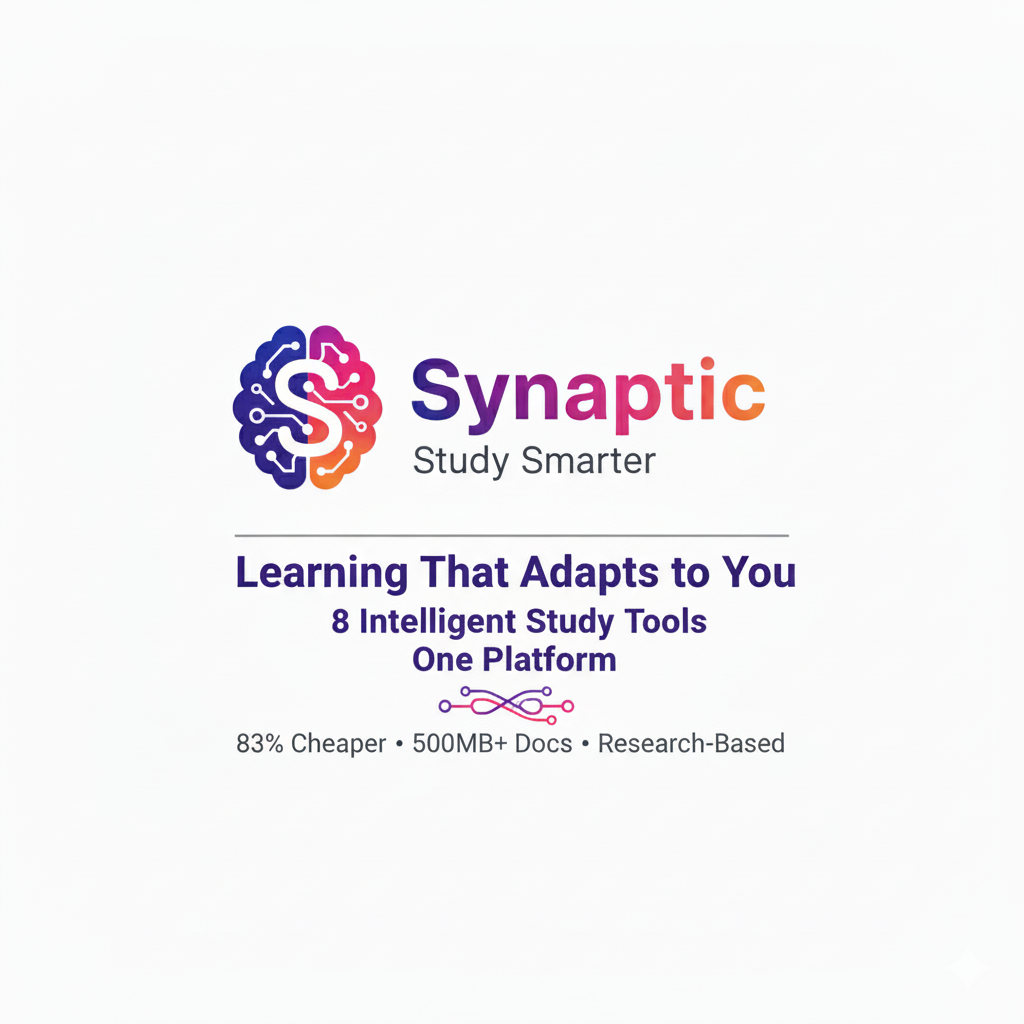
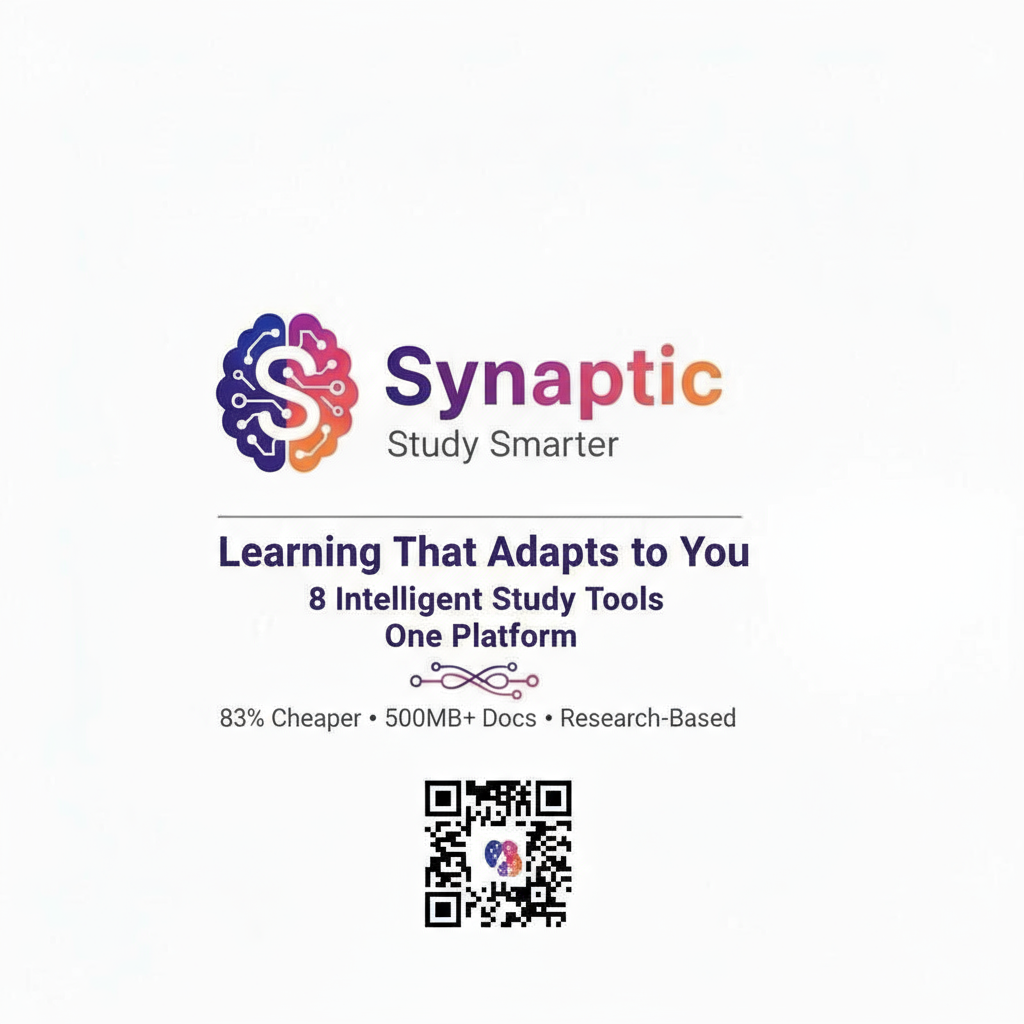
Add testing checklist and fix missing site.webmanifest
- Create comprehensive testing checklist for pre-launch validation
- Add site.webmanifest for PWA support (fixes 404 errors)
- Update og-image.png with production version

🤖 Generated with [Claude Code](https://claude.com/claude-code)

Changed region(s): [[0.1875, 0.2812, 0.7812, 0.9062]]

diff --git a/TESTING_CHECKLIST.md b/TESTING_CHECKLIST.md
@@ -1,0 +1,324 @@
+# 🧪 Production Testing Checklist
+
+**Date**: 2025-11-10
+**Environment**: Production (https://synaptic.study)
+**Status**: Pre-Launch Testing
+
+---
+
+## 1. Basic Functionality Tests (15 min)
+
+### Authentication Flow
+- [ ] Visit https://synaptic.study
+- [ ] Click "Get Started"
+- [ ] Sign up with new email (test account)
+- [ ] Verify email confirmation works
+- [ ] Sign in with existing account
+- [ ] Verify redirect to dashboard after sign-in
+
+### Landing Page
+- [ ] Check logo displays correctly (486px size)
+- [ ] Verify headline: "Learning That Adapts to You"
+- [ ] Confirm 8 features are displayed
+- [ ] Check social proof section loads
+- [ ] Verify CTA buttons work
+- [ ] Test mobile responsive view (resize browser)
+
+---
+
+## 2. Core Features Testing (30 min)
+
+### Feature 1: Document Upload
+- [ ] Upload a PDF (<10MB)
+- [ ] Verify file appears in documents list
+- [ ] Check file metadata (name, size, date)
+- [ ] Try uploading DOCX file
+- [ ] Try uploading TXT file
+
+### Feature 2: Flashcard Generation
+- [ ] Select a document
+- [ ] Click "Generate Flashcards"
+- [ ] Choose topics (if topic selection appears)
+- [ ] Wait for generation to complete
+- [ ] Verify flashcards display correctly
+- [ ] Test flip animation (front/back)
+- [ ] Mark as "Easy" - check spaced repetition updates
+- [ ] Check flashcards saved to library
+
+### Feature 3: Document Chat (Socratic Teacher)
+- [ ] Open a document
+- [ ] Go to Chat interface
+- [ ] Ask a question about the document
+- [ ] Verify AI responds with Socratic guidance
+- [ ] Test follow-up questions
+- [ ] Check chat history persists
+
+### Feature 4: Podcast Generation
+- [ ] Select a document
+- [ ] Click "Generate Podcast"
+- [ ] Wait for script generation
+- [ ] Wait for audio generation (may take 2-3 min)
+- [ ] Play audio - verify quality
+- [ ] Check pause/resume controls
+- [ ] Verify podcast saves to library
+
+### Feature 5: Mind Map Generation
+- [ ] Select a document
+- [ ] Click "Generate Mind Map"
+- [ ] Verify mind map renders with nodes
+- [ ] Test drag-and-drop node movement
+- [ ] Test zoom in/out
+- [ ] Click "Expand Node" - verify it works
+- [ ] Check relationships between concepts
+
+### Feature 6: Mock Exam Simulator
+- [ ] Select a document
+- [ ] Click "Generate Mock Exam"
+- [ ] Start exam
+- [ ] Answer multiple choice questions
+- [ ] Submit exam
+- [ ] View results and analytics
+- [ ] Check score calculation
+
+### Feature 7: Video Learning
+- [ ] Go to Video Learning section
+- [ ] Search for a YouTube video (e.g., "photosynthesis")
+- [ ] Select a video
+- [ ] Verify transcript extraction
+- [ ] Generate flashcards from video
+- [ ] Check video embed plays
+
+### Feature 8: Writing Assistant
+- [ ] Go to Writing Assistant
+- [ ] Create new essay
+- [ ] Type some text
+- [ ] Request AI suggestions
+- [ ] Add a citation
+- [ ] Save essay
+- [ ] Verify essay appears in library
+
+---
+
+## 3. Premium/Payment Testing (10 min)
+
+### Free Tier Limits
+- [ ] Create new free account
+- [ ] Generate 3+ flashcard sets (check if limit enforced)
+- [ ] Try to exceed free tier limit
+- [ ] Verify "Upgrade to Premium" prompt appears
+
+### Payment Flow (Use Stripe test card: 4242 4242 4242 4242)
+- [ ] Click "Upgrade to Premium"
+- [ ] Verify redirect to Stripe Checkout
+- [ ] Enter test card: `4242 4242 4242 4242`
+- [ ] Enter expiry: Any future date (e.g., 12/26)
+- [ ] Enter CVC: Any 3 digits (e.g., 123)
+- [ ] Complete payment
+- [ ] Verify redirect back to dashboard
+- [ ] Check "Premium" badge appears
+- [ ] Verify unlimited access to features
+
+**IMPORTANT**: After test, cancel subscription in Stripe dashboard or your database
+
+---
+
+## 4. Mobile Responsiveness (10 min)
+
+### Test on Real Devices (Recommended)
+- [ ] iPhone: Safari browser
+- [ ] Android: Chrome browser
+- [ ] iPad: Safari browser
+
+### Or Test with Browser DevTools
+- [ ] Open Chrome DevTools (F12)
+- [ ] Toggle device toolbar (Ctrl+Shift+M)
+- [ ] Test iPhone 12 Pro view (390 x 844)
+- [ ] Test iPad Pro view (1024 x 1366)
+- [ ] Test Samsung Galaxy view (360 x 740)
+
+**Check:**
+- [ ] Navigation menu works on mobile
+- [ ] Buttons are tappable (not too small)
+- [ ] Text is readable (no tiny fonts)
+- [ ] Images scale correctly
+- [ ] Flashcard swipe gestures work
+- [ ] Upload button accessible
+
+---
+
+## 5. Performance Audit (15 min)
+
+### PageSpeed Insights
+1. Go to: https://pagespeed.web.dev/
+2. Enter: https://synaptic.study
+3. Run test
+4. Check scores:
+   - [ ] Performance > 90
+   - [ ] Accessibility > 95
+   - [ ] Best Practices > 90
+   - [ ] SEO > 95
+
+**If scores are low:**
+- Check Core Web Vitals (LCP, FID, CLS)
+- Look for suggestions (compress images, reduce bundle size)
+
+### API Response Times
+- [ ] Open browser DevTools → Network tab
+- [ ] Generate flashcards - check response time (<5s)
+- [ ] Load documents list - check response time (<2s)
+- [ ] Chat message - check response time (<3s)
+
+---
+
+## 6. Security Check (15 min)
+
+### A. API Key Exposure Check
+- [ ] Open browser DevTools → Console
+- [ ] Check for any exposed API keys in JavaScript
+- [ ] Open Network tab → Check API requests
+- [ ] Verify no secrets in response headers
+
+**Expected**: Only `NEXT_PUBLIC_*` variables visible (Clerk, Supabase public keys)
+
+### B. Row Level Security (RLS) Test
+1. Sign in with Account A
+2. Note a document ID from Account A
+3. Sign out
+4. Sign in with Account B
+5. Try to access Account A's document directly (URL manipulation)
+
+- [ ] Verify you CANNOT see Account A's documents
+- [ ] Verify error or "Not found" message
+- [ ] Check Supabase logs for RLS policy enforcement
+
+### C. Rate Limiting Test
+- [ ] Open Postman or browser console
+- [ ] Make 20 rapid API calls to `/api/generate-flashcards`
+- [ ] Verify you get rate limited (429 Too Many Requests)
+- [ ] Check error message is user-friendly
+
+### D. Security Headers Check
+1. Go to: https://securityheaders.com/
+2. Enter: https://synaptic.study
+3. Run scan
+
+**Check for:**
+- [ ] Strict-Transport-Security (HSTS)
+- [ ] X-Content-Type-Options
+- [ ] X-Frame-Options
+- [ ] Referrer-Policy
+- [ ] Grade: A or A+
+
+---
+
+## 7. Error Monitoring (5 min)
+
+### Sentry Verification
+1. Go to: https://sentry.io/organizations/synaptic/projects/
+2. Select "synaptic-production"
+3. Trigger a test error:
+   - [ ] Intentionally cause an error (e.g., upload invalid file)
+   - [ ] Check if error appears in Sentry dashboard within 30s
+   - [ ] Verify stack trace is readable
+   - [ ] Check user context is captured
+
+---
+
+## 8. SEO & Social Sharing (5 min)
+
+### OpenGraph Preview
+1. Go to: https://www.opengraph.xyz/
+2. Enter: https://synaptic.study
+3. Check preview:
+   - [ ] OG image displays (brain logo with text)
+   - [ ] Title: "Synaptic - Learning That Adapts to You"
+   - [ ] Description shows 8 tools + benefits
+
+### Twitter Card Validator
+1. Go to: https://cards-dev.twitter.com/validator
+2. Enter: https://synaptic.study
+3. Check:
+   - [ ] Card type: summary_large_image
+   - [ ] Image displays correctly
+   - [ ] Text is readable
+
+### Google Search Console (Optional)
+- [ ] Submit sitemap (if not done)
+- [ ] Request indexing for main pages
+
+---
+
+## 9. Cost Monitoring Setup (5 min)
+
+### OpenAI Usage Limits
+1. Go to: https://platform.openai.com/settings/organization/billing/limits
+2. Verify:
+   - [ ] Hard limit set to $500/month
+   - [ ] Email alerts enabled
+   - [ ] Current usage visible
+
+### Stripe Monitoring
+1. Go to: https://dashboard.stripe.com/dashboard
+2. Bookmark for daily checks:
+   - [ ] Gross volume
+   - [ ] Failed payments
+   - [ ] Subscription counts
+
+### Vercel Analytics
+1. Go to Vercel project → Analytics
+2. Monitor:
+   - [ ] Page views
+   - [ ] Top pages
+   - [ ] Geographic distribution
+
+---
+
+## 🚨 Common Issues & Fixes
+
+| Issue | Likely Cause | Fix |
+|-------|-------------|-----|
+| 401 Unauthorized on upload | Clerk session expired | Sign out, clear cookies, sign back in |
+| Flashcards don't generate | OpenAI API key invalid | Check Vercel env vars |
+| Podcast audio fails | LemonFox API issue | Check API key or use OpenAI TTS fallback |
+| Payment doesn't upgrade user | Webhook not firing | Check Stripe webhook logs |
+| Mind map doesn't render | Browser cache issue | Hard refresh (Ctrl+Shift+R) |
+| Images don't load | Cloudflare R2 issue | Check R2 bucket permissions |
+
+---
+
+## ✅ Testing Complete Checklist
+
+Before launching:
+- [ ] All 8 features tested and working
+- [ ] Payment flow works end-to-end
+- [ ] Mobile responsive on 3+ devices
+- [ ] Performance score > 90
+- [ ] Security audit passed
+- [ ] No exposed secrets
+- [ ] Error monitoring active
+- [ ] Social sharing working
+
+---
+
+## 📊 Post-Testing Actions
+
+**If tests pass:**
+1. Document any minor issues in GitHub Issues
+2. Proceed to soft launch (beta testers)
+3. Monitor Sentry for 24 hours
+4. Check Stripe webhook logs daily
+
+**If critical issues found:**
+1. Document in KNOWN_ISSUES.md
+2. Fix before launch
+3. Re-test after fixes
+4. Update DEPLOYMENT_GUIDE.md
+
+---
+
+**Testing Notes:**
+<!-- Add your testing notes here -->
+- Date: 2025-11-10
+- Tester:
+- Results:
+- Issues Found:
